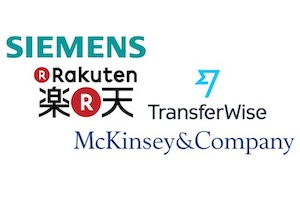
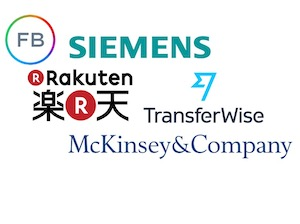
update; add GDT

Changed region(s): [[0.0, 0.0543, 0.72, 0.543], [0.21, 0.2986, 0.99, 0.7059]]

diff --git a/index.html b/index.html
@@ -21,7 +21,7 @@
               </p>
               <p style="text-align:center"> Computer Vision | Machine Learning | Complex Systems </p>
               <p>
-                I'm a PhD student in the <a href="https://www.robots.ox.ac.uk/~vgg/">Visual Geometry Group (VGG)</a> working with <a href="http://www.robots.ox.ac.uk/~vedaldi/">Andrea Vedaldi</a> at the <a href="http://www.ox.ac.uk/">University of Oxford</a>. Prior to this I studied physics at the <a href="http://www.en.uni-muenchen.de/index.html">University of Munich (LMU)</a> and <a href="https://www.fernuni-hagen.de/">Economics in Hagen</a> as well as a <a href="https://www.maths.ox.ac.uk/members/students/postgraduate-courses/msc-mmsc">MSc in Mathematical Modelling and Scientific Computing</a> at the Mathematical Institute in Oxford. Also, I love running, the mountains ⛰ and their combination.
+                I'm a PhD student in the <a href="https://www.robots.ox.ac.uk/~vgg/">Visual Geometry Group (VGG)</a> working with <a href="http://www.robots.ox.ac.uk/~vedaldi/">Andrea Vedaldi</a> and <a href="https://chrirupp.github.io/">Christian Rupprecht</a> at the <a href="http://www.ox.ac.uk/">University of Oxford</a>. Prior to this I studied physics at the <a href="http://www.en.uni-muenchen.de/index.html">University of Munich (LMU)</a> and <a href="https://www.fernuni-hagen.de/">Economics in Hagen</a> as well as a <a href="https://www.maths.ox.ac.uk/members/students/postgraduate-courses/msc-mmsc">MSc in Mathematical Modelling and Scientific Computing</a> at the Mathematical Institute in Oxford. Also, I love running, the mountains ⛰ and their combination.
               </p>
               <p style="text-align:center">
                 <a href="mailto:yuki@robots.ox.ac.uk">Email</a> &nbsp/&nbsp
@@ -43,9 +43,11 @@
               <heading>News</heading>
               <p>
                 <ul>
+                  <li>Starting my summer internship June 22nd  at FAIR and working with Armand Joulin and Ishan Misra. </li>
+                  <li>Awarded with the 2020 <a href="https://www.qualcomm.com/invention/research/university-relations/innovation-fellowship/2020-europe"> Qualcomm Innovation Fellowship</a>.</li>
                   <li>I'll be co-organizing a workshop at ECCV 2020: <a href="https://sslwin.org/">Self-Supervised Learning: What Is Next?</a> </li>
                   <li>Two papers have been accepted into ICLR 2020 (incl. one Spotlight)</li>
-                  <li>Started using a new homepage!</li>
+                  <!-- <li>Started using a new homepage!</li> -->
                 </ul>
               </p>
             </td>
@@ -66,6 +68,24 @@
 
           <tr>
             <td style="padding:20px;width:25%;vertical-align:middle">
+              <img src="images/gdt.png" alt="hierarchical transformations" width="160" height="160">
+            </td>
+            <td width="75%" valign="middle">
+              <a href="https://arxiv.org/abs/2003.04298">
+                <papertitle>Multi-modal Self-Supervision from Generalized Data Transformations</papertitle>
+              </a>
+              <br>
+              Mandela Patrick*<strong>, Yuki M. Asano*</strong>, <a href="http://ruthcfong.github.io/">Ruth Fong<a/>, <a href="http://www.robots.ox.ac.uk/~joao/">João F. Henriques<a/>, Geoffrey Zweig, <a href="http://www.robots.ox.ac.uk/~vedaldi/">Andrea Vedaldi</a>
+              <!-- <br> -->
+              <!-- <em>ICLR </em>, 2020 &nbsp <font color=#FF8080><strong>(Spotlight)</strong></font> -->
+              <!-- <br> -->
+              <a href="data/patrick2020multimodal.bib">bibtex</a>
+              <p>We give transformations the prominence they deserve. SOTA video representation learning by learning (in)variances systematically.
+            </td>
+          </tr>
+
+          <tr>
+            <td style="padding:20px;width:25%;vertical-align:middle">
               <img src="images/self-clusters.jpg" alt="learned clusters" width="160" height="160">
             </td>
             <td width="75%" valign="middle">
@@ -77,7 +97,7 @@
               <br>
               <em>ICLR </em>, 2020 &nbsp <font color=#FF8080><strong>(Spotlight)</strong></font>
               <br>
-              <a href="https://github.com/yukimasano/self-label">code | </a> <a href="http://www.robots.ox.ac.uk/~vgg/blog/self-labelling-via-simultaneous-clustering-and-representation-learning.html">blog | </a> <a href="data/asano2020self.bib">bibtex</a>
+              <a href="https://github.com/yukimasano/self-label">code | </a> <a href="http://www.robots.ox.ac.uk/~vgg/blog/self-labelling-via-simultaneous-clustering-and-representation-learning.html">blog | </a> <a href="data/asano2020self.bib">bibtex</a> | <a href="https://iclr.cc/virtual_2020/poster_Hyx-jyBFPr.html">ICLR presentation</a>
               <p>We propose a self-supervised learning formulation that simultaneously learns feature representations and useful dataset labels by optimizing the common cross-entropy loss for features <i>  and </i> labels, while maximizing information.
             </td>
           </tr>
@@ -95,7 +115,7 @@
               <br>
               <em>ICLR </em>, 2020
               <br>
-              <a href="data/asano2020a.bib">bibtex</a>
+              <a href="data/asano2020a.bib">bibtex</a> | <a href="https://iclr.cc/virtual_2020/poster_B1esx6EYvr.html">ICLR presentation</a>
               <p>We evaluate self-supervised feature learning methods and find that with sufficient data augmentation early layers can be learned using just one image.  This is informative about self-supervision and the role of augmentations.
             </td>
           </tr>
@@ -175,7 +195,7 @@
             <td width="55%" valign="center">
               I am a curious person.
               <br>
-              I got the chance to gain some valuable experiences in consulting and more recently in the technology sector, including a machine learning internship at TransferWise.
+              I got the chance to gain some valuable experiences in consulting and more recently in the technology sector, including internships at Facebook AI Research and Transferwise.
               <br>
               More to come.
             </a>
